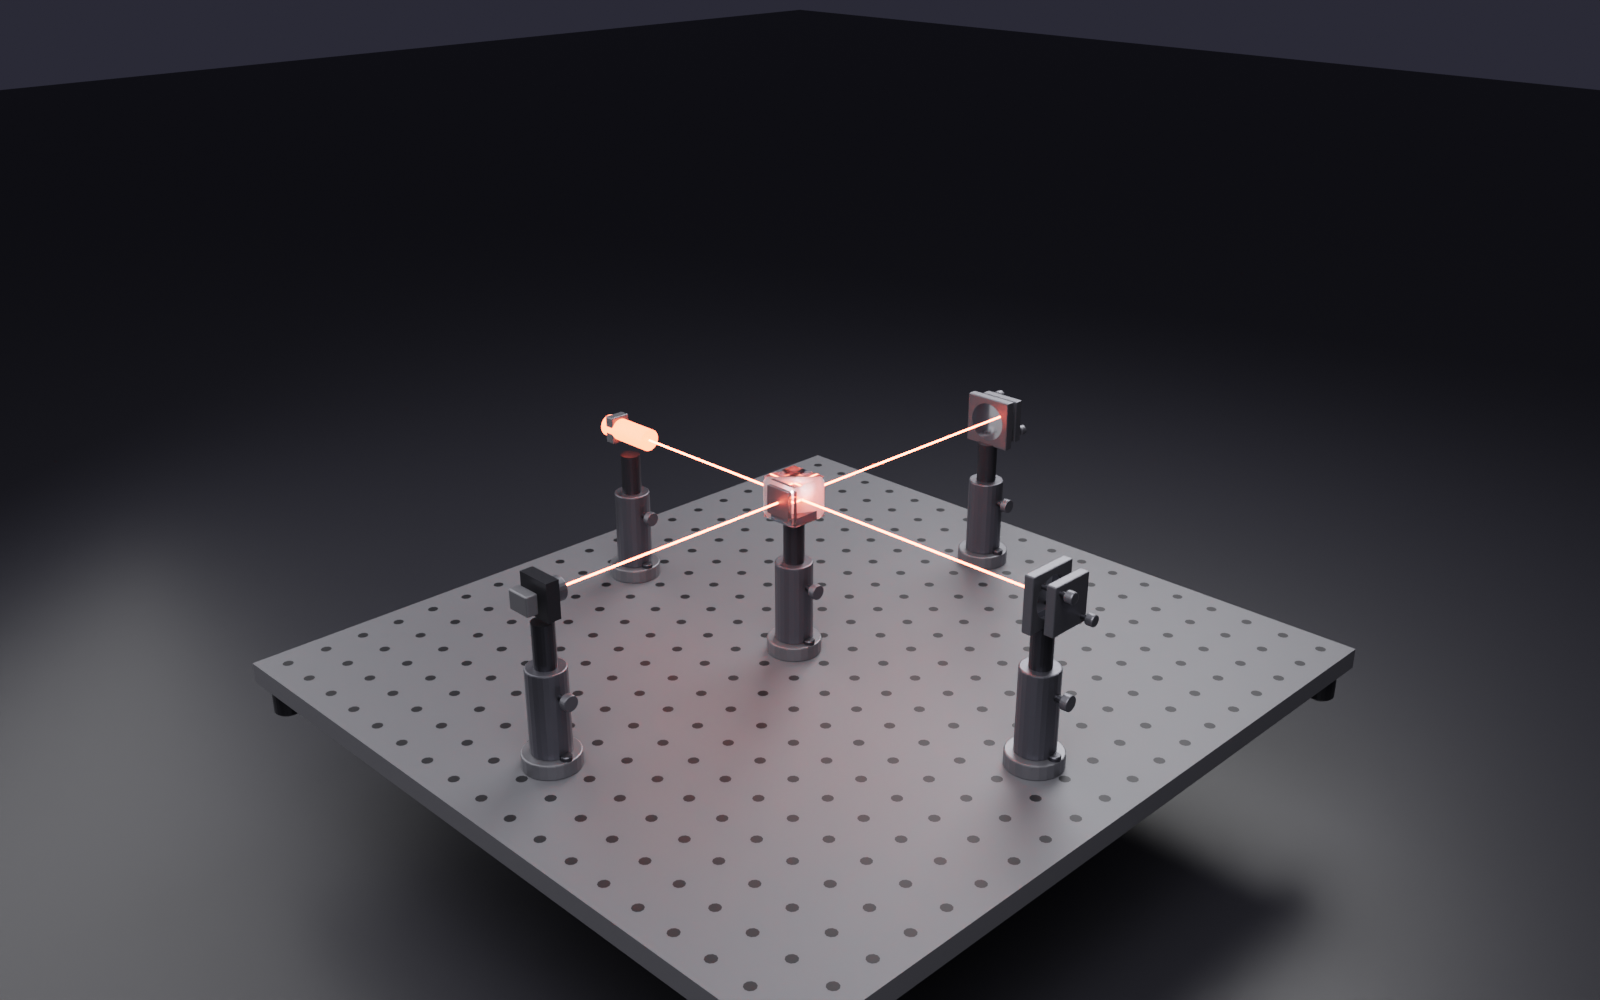
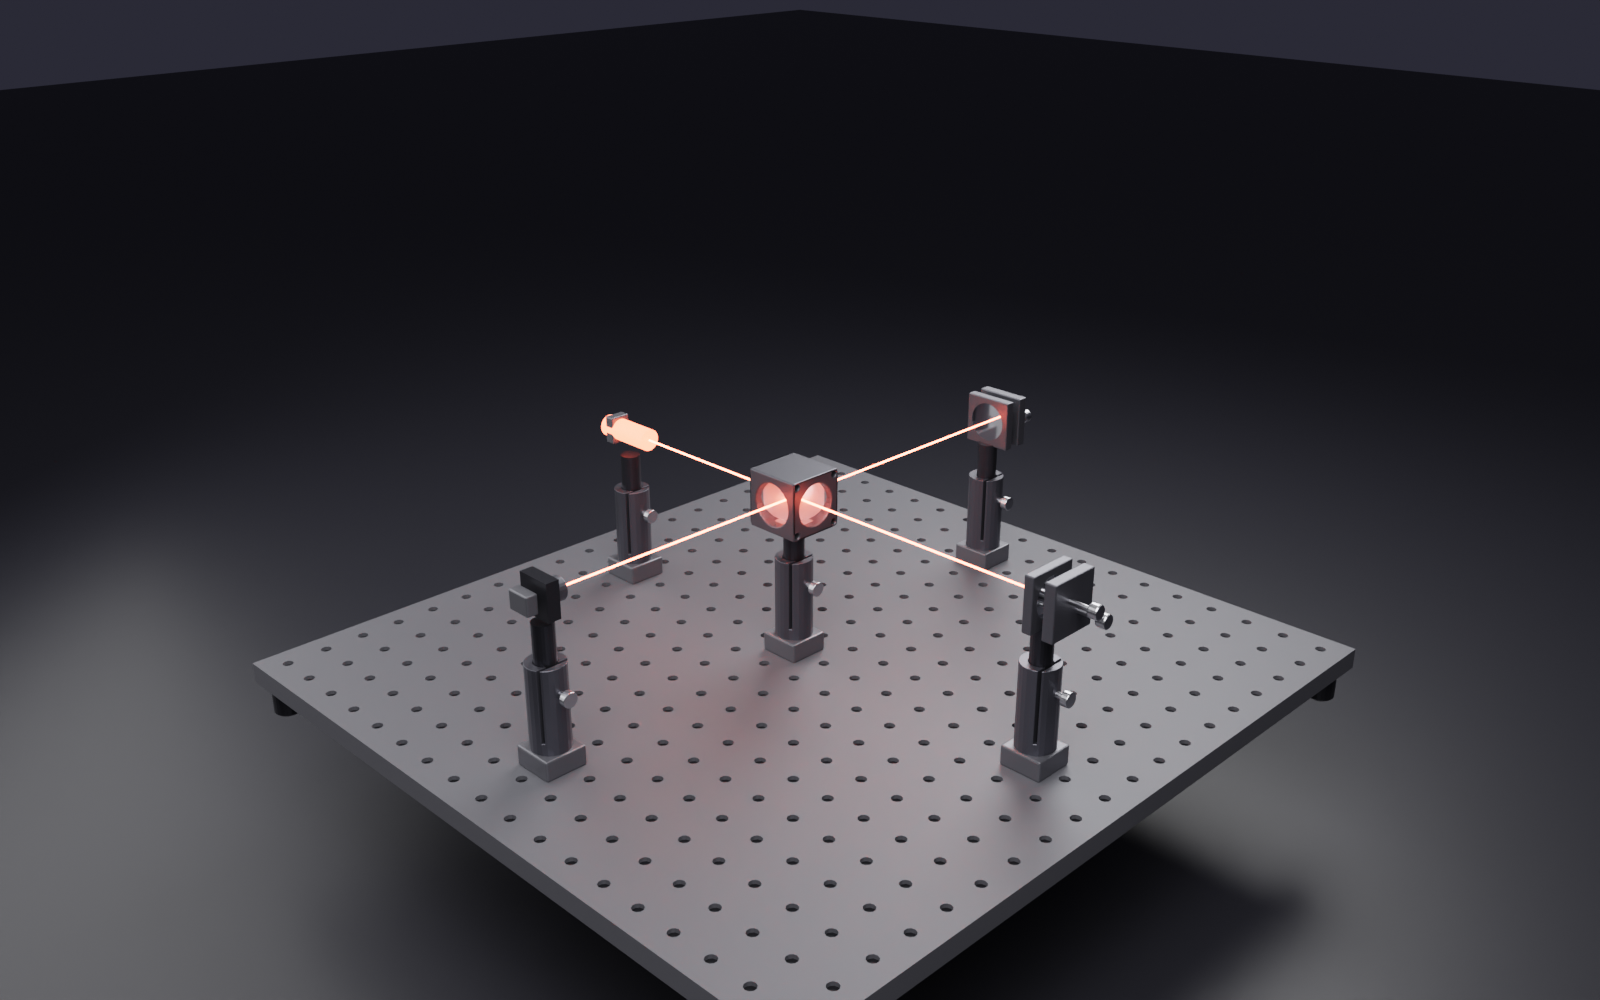
feat(optomech): bored breadboard holes (real recessed pockets) — P6 revision
The breadboard tapped holes were flat discs parked 0.05 mm above the surface (read as painted
dots). Now bored as REAL recessed pockets: a single merged cutter of N hole cylinders → one boolean
on the slab (new _bore_grid, capped at 900 holes for cost — falls back to flat discs above the cap),
with the dark hole discs reseated at the pocket FLOOR so each hole reads as a shadowed recess.

Decoration only -> trace byte-identical; regression 143/143 (board boolean adds ~30s to the headless
run, well within budget). README hero re-rendered with the recessed-hole board + the revised mounts.

diff --git a/optical_alignment_sim/optomech.py b/optical_alignment_sim/optomech.py
@@ -304,6 +304,28 @@ def _bore_local(obj, mw, off, r, depth, axis='Z', seg=24):
     _diff(obj, cut)
 
 
+def _bore_grid(board, x0, y0, nx, ny, pitch, top_z, hole_r, depth=2.6):
+    """Bore the tapped-hole array into the board as real recessed pockets (one merged cutter of N
+    cylinders → a single boolean), so holes cast interior shadow instead of reading as painted dots.
+    Capped for cost: above the cap the board keeps its flat-disc holes. Returns True if it bored."""
+    import bmesh
+    if nx * ny > 900:
+        return False
+    me = bpy.data.meshes.new(BENCH_PREFIX + "_holecut")
+    bm = bmesh.new()
+    for j in range(ny):
+        for i in range(nx):
+            bmesh.ops.create_cone(bm, cap_ends=True, segments=10,
+                                  radius1=hole_r, radius2=hole_r, depth=depth + 2.0,
+                                  matrix=Matrix.Translation((x0 + i * pitch, y0 + j * pitch,
+                                                             top_z - depth * 0.5 + 1.0)))
+    bm.to_mesh(me); bm.free()
+    cut = bpy.data.objects.new(BENCH_PREFIX + "_holecut", me)
+    bpy.context.scene.collection.objects.link(cut)
+    _diff(board, cut)
+    return True
+
+
 def _build_mount(o, coll, idx):
     """Build the mount silhouette that matches the element's mount/element type, oriented in the
     optic's local frame (local +Z is the optical axis for inline parts; the cube body for splitters).
@@ -775,12 +797,15 @@ def dress(scene, post_radius=POST_RADIUS):
     ny = min(int(round((y1 - y0) / pitch)) + 1, 80)
     th = BOARD_THICKNESS
     margin = pitch * 0.6  # board overhang past the outermost holes
-    _box(BENCH_PREFIX + "Breadboard",
-         (x1 - x0 + 2 * margin, y1 - y0 + 2 * margin, th),
-         ((x0 + x1) * 0.5, (y0 + y1) * 0.5, board_top_z - th * 0.5),
-         coll, "board")
-    _hole_grid(BENCH_PREFIX + "Holes", x0, y0, nx, ny, pitch, board_top_z, coll,
-               hole_r=_thread_hole_r(pitch))
+    board = _box(BENCH_PREFIX + "Breadboard",
+                 (x1 - x0 + 2 * margin, y1 - y0 + 2 * margin, th),
+                 ((x0 + x1) * 0.5, (y0 + y1) * 0.5, board_top_z - th * 0.5),
+                 coll, "board")
+    # bore real recessed holes into the board; the dark hole discs then sit at the pocket FLOOR so
+    # each hole reads as a shadowed recess, not a painted dot (falls back to flat discs above the cap)
+    bored = _bore_grid(board, x0, y0, nx, ny, pitch, board_top_z, _thread_hole_r(pitch))
+    _hole_grid(BENCH_PREFIX + "Holes", x0, y0, nx, ny, pitch,
+               board_top_z - 2.45 if bored else board_top_z, coll, hole_r=_thread_hole_r(pitch))
     # four feet so the breadboard sits on a surface instead of floating in the void
     cxb = (x0 + x1) * 0.5; cyb = (y0 + y1) * 0.5
     fx = (x1 - x0) * 0.5 + margin - pitch * 0.5
